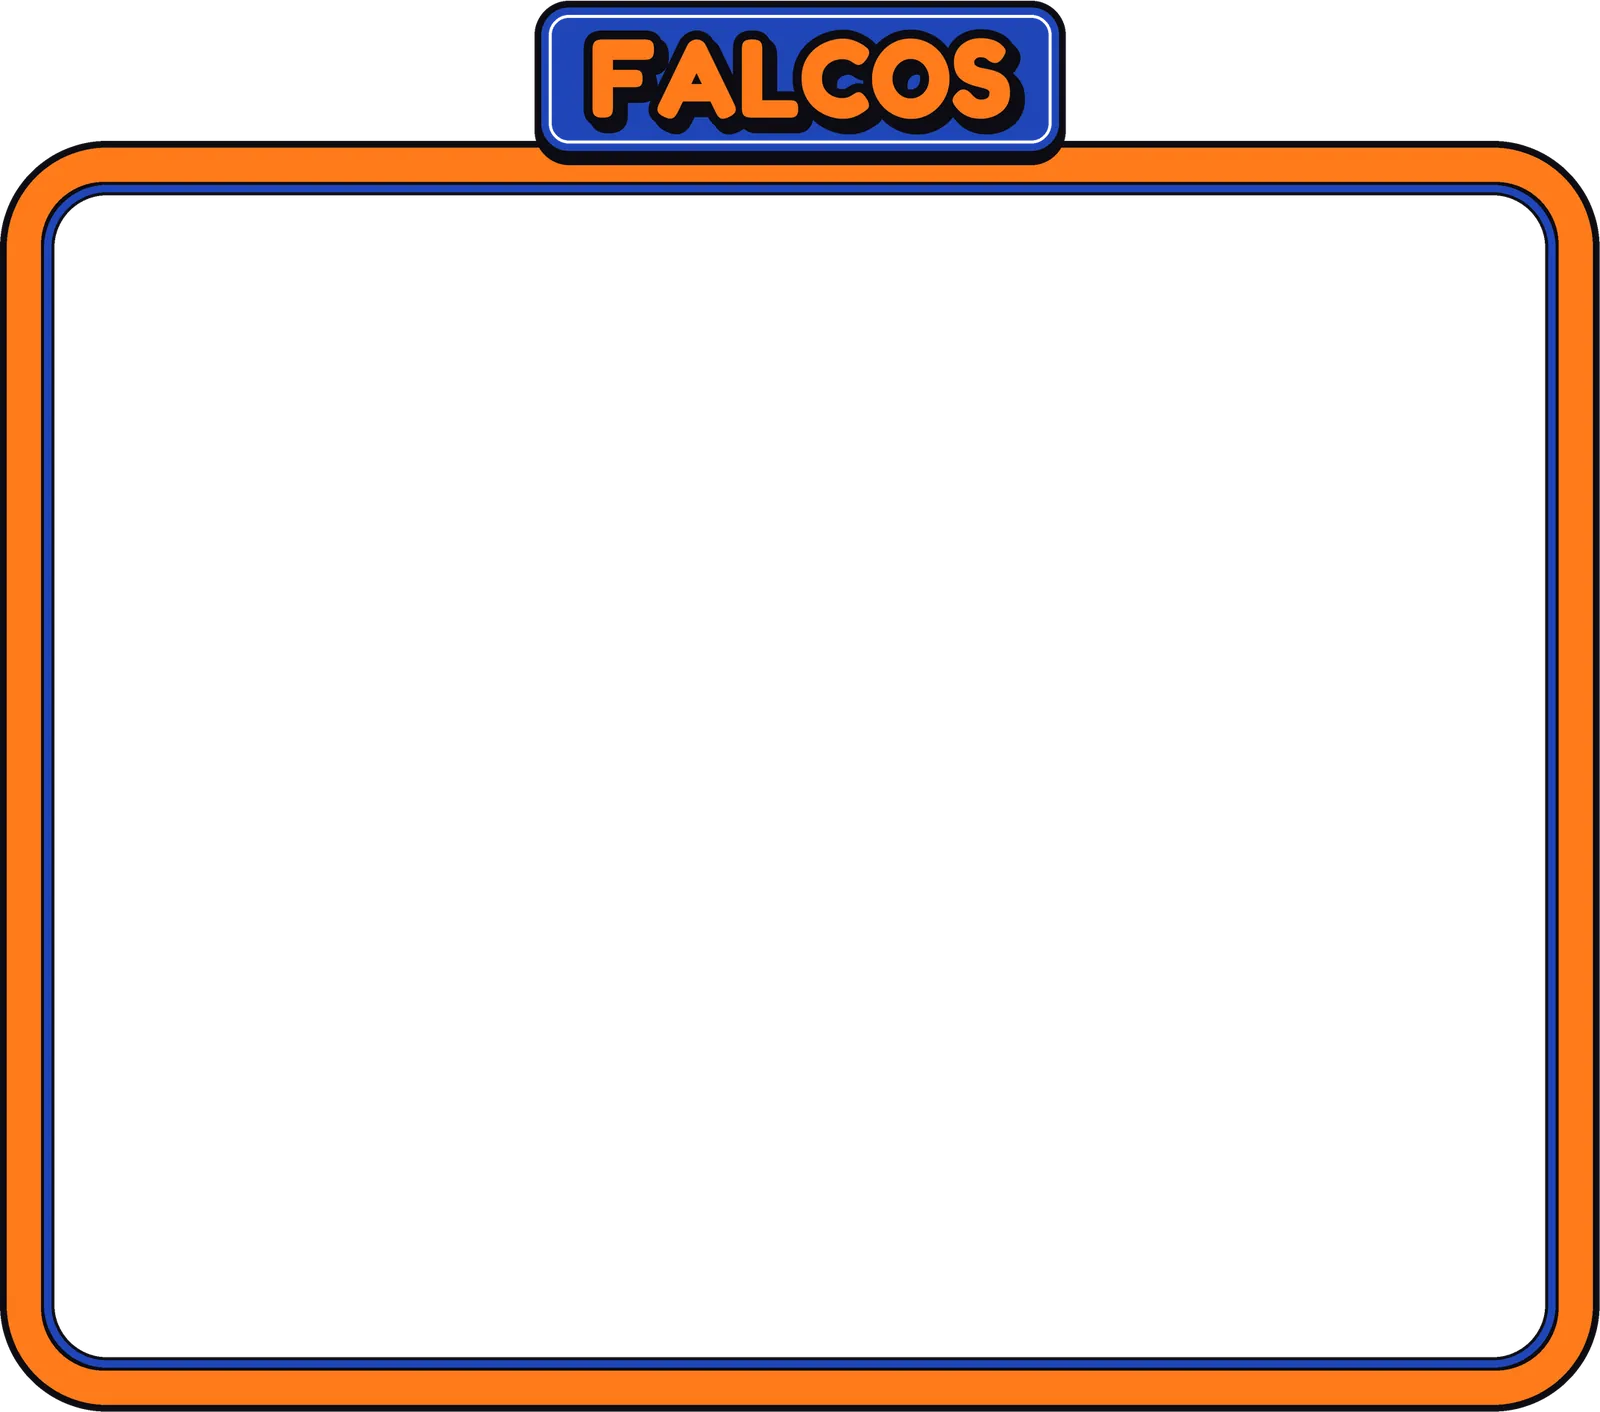
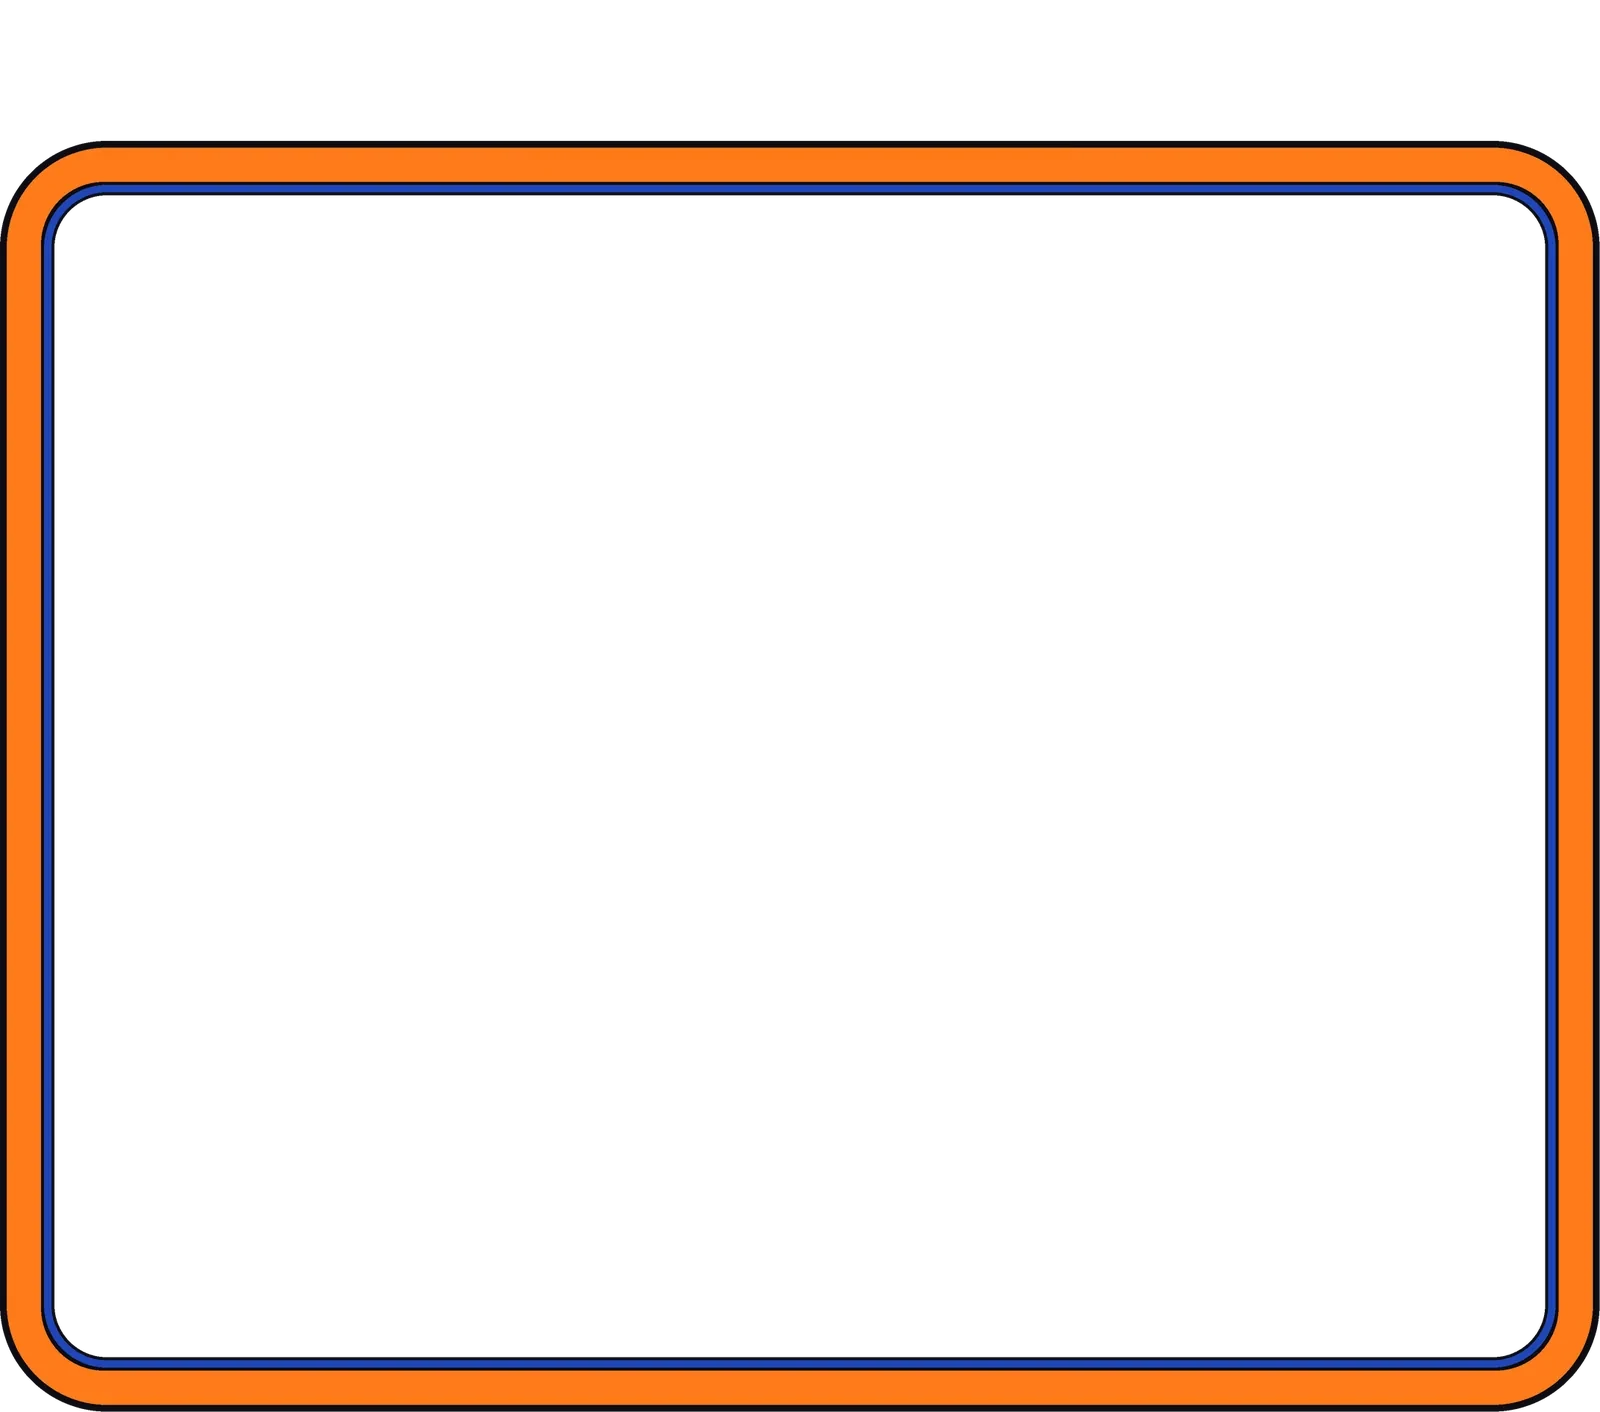
Falcos: no FALCOS plate on the board frame; the board sits under the building's sign
- The title plate is cleared from both board frames and their top edge redrawn (tools/falcos/frame_no_plate.py).
- On a landscape screen the board sits lower (.main padding-top 12px -> 104px), so the building's FALCOS sign shows
  above it.

Changed region(s): [[0.3125, 0.0, 0.6875, 0.1246]]

diff --git a/frontend/index.html b/frontend/index.html
@@ -3039,7 +3039,9 @@
      height, so the empty bands above the topper and between the frame and the bar went - the board
      takes the room (about 11% bigger at 16:9); the side padding is thinner for a phone, fitted by width */
   @media (orientation: landscape) {
-    .main { padding-top: 12px; gap: 8px; }
+    /* room over the board for the building's FALCOS sign, now the frame has no title plate (owner, 2026-11-17:
+       "remove this so you can see the falcos sign in the back") */
+    .main { padding-top: 104px; gap: 8px; }
     .stage { padding-bottom: 4px; }
     .bottom { padding-top: 0; }
   }

diff --git a/tools/falcos/frame_no_plate.py b/tools/falcos/frame_no_plate.py
@@ -1,0 +1,30 @@
+"""The board frame without its FALCOS title plate (owner, 2026-11-17: "remove this so you can see the falcos sign in the
+back"): the plate painted on the frame's top edge is cleared from both frame pictures (frontend/assets/frame_wide.webp,
+frame_sq.webp) and the frame's straight top edge is drawn back where the plate covered it, copied from a column of
+that edge just left of the plate. Originals kept as art/falcos/work/frame_<name>.with_plate.webp; re-runs start there.
+
+    .venv/bin/python tools/falcos/frame_no_plate.py
+"""
+import os, shutil
+import numpy as np
+from PIL import Image
+
+ROOT = os.path.dirname(os.path.dirname(os.path.dirname(os.path.abspath(__file__))))
+A = os.path.join(ROOT, 'frontend', 'assets')
+W = os.path.join(ROOT, 'art', 'falcos', 'work')
+for name in ('frame_wide', 'frame_sq'):
+    out = os.path.join(A, name + '.webp')
+    keep = os.path.join(W, name + '.with_plate.webp')
+    if not os.path.exists(keep):
+        shutil.copyfile(out, keep)
+    a = np.asarray(Image.open(keep).convert('RGBA')).copy()
+    al = a[..., 3] > 30
+    H, Wd = al.shape
+    top = int(np.argmax(al[:, int(Wd * .12)]))          # the border's top row, clear of the plate
+    ys, xs = np.nonzero(al[:top])
+    x0, x1 = xs.min() - 6, xs.max() + 6                   # the plate's span, a little margin
+    depth = top + 120                                     # down through the border's whole top edge
+    ref = a[:depth, x0 - 30:x0 - 29]                       # one column of the straight top edge, left of the plate
+    a[:depth, x0:x1 + 1] = np.repeat(ref, x1 + 1 - x0, axis=1)
+    Image.fromarray(a).save(out, 'WEBP', quality=90, method=6, alpha_quality=100)
+    print(f'{name}: plate cleared over x {x0}-{x1}, edge redrawn to row {depth}')
